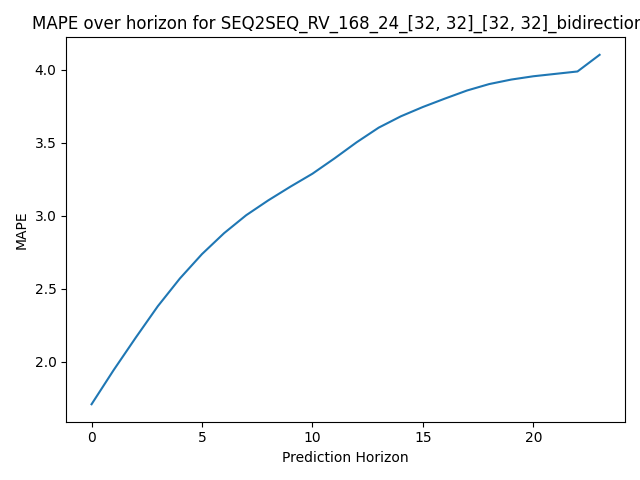
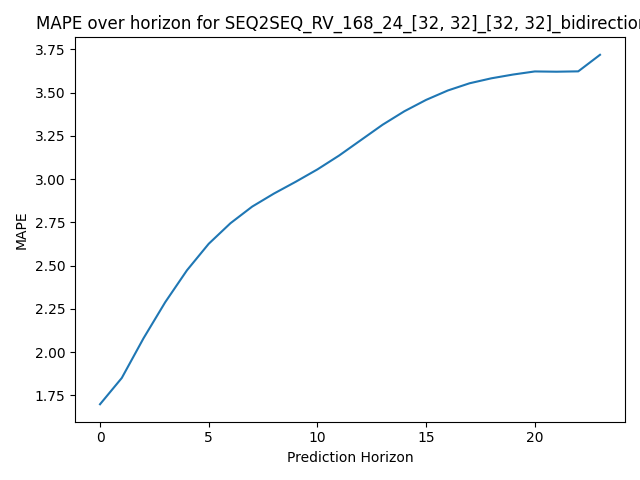
added more seq2seq eval results

diff --git a/models/seq2seq/seq2seq.py b/models/seq2seq/seq2seq.py
@@ -38,11 +38,11 @@ class Seq2SeqRepeatVectorModel(Model):
             
             if self.bidirectional:
                 self.encoder_layers_list.append(
-                    Bidirectional(LSTM(units // 2, return_sequences=not is_last_layer, dropout=dropout), merge_mode='concat')
+                    Bidirectional(LSTM(units // 2, return_sequences=not is_last_layer, dropout=dropout, recurrent_dropout=dropout), merge_mode='concat')
                 )
             else:
                 self.encoder_layers_list.append(
-                    LSTM(units, return_sequences=not is_last_layer, dropout=dropout)
+                    LSTM(units, return_sequences=not is_last_layer, dropout=dropout, recurrent_dropout=dropout)
                 )
         
         self.encoder = Sequential(self.encoder_layers_list)
@@ -53,11 +53,11 @@ class Seq2SeqRepeatVectorModel(Model):
         for i, units in enumerate(decoder_layers):
             if self.bidirectional:
                 self.decoder_layers_list.append(
-                    Bidirectional(LSTM(units // 2, return_sequences=True, dropout=dropout), merge_mode='concat')
+                    Bidirectional(LSTM(units // 2, return_sequences=True, dropout=dropout, recurrent_dropout=dropout), merge_mode='concat')
                 )
             else:
                 self.decoder_layers_list.append(
-                    LSTM(units, return_sequences=True, dropout=dropout)
+                    LSTM(units, return_sequences=True, dropout=dropout, recurrent_dropout=dropout)
                 )
         
         self.decoder = Sequential(self.decoder_layers_list)

diff --git a/eval/seq2seq/seq2seq_repeatvector.py b/eval/seq2seq/seq2seq_repeatvector.py
@@ -40,6 +40,25 @@ def evaluate_model(sequence_length: int, prediction_length: int, model_name: str
     y_real = decode_ml_outputs(y_test, raw_data)
     y_pred = decode_ml_outputs(np.squeeze(predictions, -1), raw_data)
     
+    mapes = []
+    for start in range(y_real.shape[0]):
+        real = y_real[start, :]
+        pred = y_pred[start, :]
+        
+        mask = real != 0
+        
+        if np.any(mask):
+            mape = np.mean(np.abs((real[mask] - pred[mask]) / real[mask])) * 100
+        else:
+            mape = np.nan
+
+        mapes.append(mape)
+    
+    mape_per_starting_hour = []
+    for i in range(24):
+        indices = list(range(i, len(mapes), 24))
+        mape_per_starting_hour.append(np.mean(np.array(mapes)[indices]))
+    
     mape_per_step = []
     
     for step in range(y_real.shape[1]):
@@ -59,9 +78,9 @@ def evaluate_model(sequence_length: int, prediction_length: int, model_name: str
     mape_total = np.nanmean(mape_per_step)
 
     with open(f'{Path(__file__).parent}/results/eval_results_{model_name}.txt', 'w') as f:
-        f.write(f'step, mape_1h\n')
-        for step, mape_step in enumerate(mape_per_step):
-            f.write(f'{step}, {mape_step}\n')
+        f.write(f'starting_hour, mape_1h\n')
+        for strat, mape_start in enumerate(mape_per_starting_hour):
+            f.write(f'{strat}, {mape_start}\n')
         f.write(f'total, {mape_total}\n')
     
     plot_creator = ModelPlotCreator()

diff --git a/models/seq2seq/train_seq2seq_repeatvector.py b/models/seq2seq/train_seq2seq_repeatvector.py
@@ -41,6 +41,7 @@ def train_seq2seq_repeatvector(sequence_length: int, prediction_length: int, enc
     early_stopping = keras.callbacks.EarlyStopping(
         monitor='val_loss', 
         patience=5,
+        min_delta=0.001,
         verbose=1,
         restore_best_weights=True 
     )
@@ -61,9 +62,9 @@ if __name__ == "__main__":
     MODEL_PARAMS = {
         'sequence_length': 168,
         'prediction_length': 24,
-        'encoder_layers': [32, 32],
-        'decoder_layers': [32, 32],
-        'bidirectional': True,
+        'encoder_layers': [32],
+        'decoder_layers': [32],
+        'bidirectional': False,
         'dropout': 0.2,
     }
     
